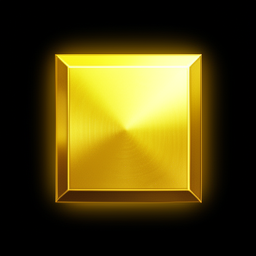
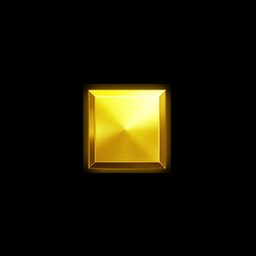
combo PS znacky: vetsi symbol (ocrop PNG), tenci ring, vetsi obrazek, bump ASSET_CACHE

diff --git a/public/style.css b/public/style.css
@@ -324,16 +324,16 @@ body.no-scroll { overflow: hidden; }
    kruhové, s borderem). */
 .combo-ring {
   border-radius:50%;
-  padding:10px;
+  padding:4px;
   background:
     conic-gradient(#f1c40f calc(var(--ww-remaining, 0) * 360deg), rgba(241,196,15,0.15) 0);
 }
 /* PS značka uvnitř ringu — kruhová, s bílým borderem (design Dodge/Block).
    PNG má plné černé pozadí (RGB, bez alpha) → overflow:hidden je nutné, aby
-   border-radius:50% ořízl černý čtverec na kruh. Obrázek menší než ring,
-   ať se symbol (trojúhelník/čtverec) nedotýká kruhu. */
+   border-radius:50% ořízl černý čtverec na kruh. Obrázek větší, ať je symbol dobře čitelný,
+   tenký ring (4px) jen orámuje okraj. */
 .combo-ring img {
-  width:52px;height:52px;
+  width:64px;height:64px;
   border-radius:50%;border:2px solid #fff;
   object-fit:cover;overflow:hidden;
   background:#111;display:block;

diff --git a/public/sw.js b/public/sw.js
@@ -1,5 +1,5 @@
 const CODE_CACHE = 'boss-slayer-code-v204';
-const ASSET_CACHE = 'boss-slayer-assets-v48';
+const ASSET_CACHE = 'boss-slayer-assets-v49';
 
 const CODE_FILES = ['/', '/index.html', '/style.css?v=161', '/manifest.json', '/item-reference.html'];
 
